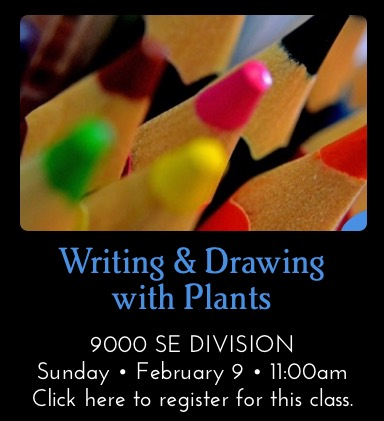
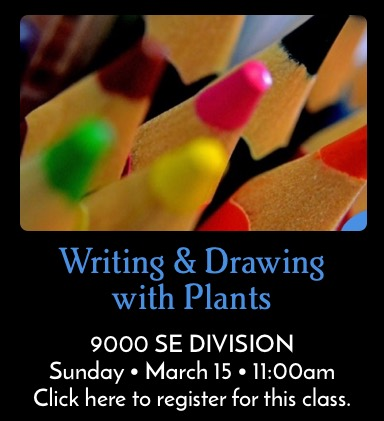
classes update

Changed region(s): [[0.0625, 0.772, 0.9062, 0.9881]]

diff --git a/pages/events/current-classes.htm b/pages/events/current-classes.htm
@@ -83,96 +83,6 @@ is_hidden = 0
 
 <!-- <p><strong>5050 SE Stark St location:</strong><br />Limited to 5-10 people.<br>Daily from November 22 – December 15. Time Slots are 10:00am, 12:30pm and 3:00pm.<br>Email <a href="mailto:stark-classes@portlandnursery.com?subject=Schedule%20a%20Wreath%20Party">stark-classes@portlandnursery.com</a> or call 503-231-5050.</p> -->
 
-<h2 class="wkend">February 22 - 23, 2020</h2>
-
-<div class="dclass">
-	<h3>Raised Veggie Bed Demo</h3>
-	<p>with Portland Nursery<br>
-Join Portland Nursery staff members outside as we tend our own raised vegetable beds.  Get practical information on how to grow your own food at home in this informal talk with plenty of time for Q & A. Class is held outside rain or shine so dress for the weather.</p>
-<p><strong>9000 SE DIVISION &bull; Saturday &bull; February 22 &bull; 11:00am</strong><br>
-<a href="https://portlandnursery.wufoo.com/forms/z13o6x6w147ylbb/" onclick="window.open(this.href,  null, 'height=483, =680, toolbar=0, location=0, status=1, scrollbars=1, resizable=1'); return false">Click here to register for this class.</a></p></div>
-
-<div class="dclass">
-	<h3>Winter Apple Tree Pruning</h3>
-<p>with Jarid<br>
-Spring is almost here and it’s time to winter prune your apples! Join Jarid of Portland Nursery for an intro in essential care for your apple trees. Learn how to improve your yields, train young trees, reinvigorate your old growth tree, and more. We will discuss some of the fundamentals of apple tree growth and how you can use that knowledge to get the most from your apple tree.</p>
-<p><strong>9000 SE DIVISION &bull; Saturday &bull; February 22 &bull; 1:00pm</strong><br>
-<a href="https://portlandnursery.wufoo.com/forms/zpfxd220rw80an/" onclick="window.open(this.href,  null, 'height=483, =680, toolbar=0, location=0, status=1, scrollbars=1, resizable=1'); return false">Click here to register for this class.</a></p></div>
-
-<h3>Being Successful with Roses in the NW</h3>
-     <p>with Rich Baer, <a href="http://www.portlandrosesociety.org/" target="_blank">Portland Rose Society</a><br />
-Join Rose Society President and Master Rosarian Rich Baer for basic class on roses: selecting roses, siting and planting them, and caring for them so they will bloom their best. Feel the Rose City pride, and pride in your own roses, whether they are for landscape or vase.</p>
-<p><strong>5050 SE STARK &bull; Saturday &bull; February 22 &bull; 1:00pm</strong><br>
-<a href="https://www.eventbrite.com/e/90351298165" onclick="window.open(this.href,  null, 'height=483, =680, toolbar=0, location=0, status=1, scrollbars=1, resizable=1'); return false">Click here to register for this class.</a></p>
-
-<h3>Small Fruit Series: Grapes</h3>
-    <p>with Ken Whitten of Portland Nursery<br>
-The shrubs and vines of these tasty berries and fruits are key elements in an edible landscape plan.  Learn about the needs and qualities of different varieties that do well in this area, and how they can make your garden beautiful as well as providing tasty fruit for fresh eating or preserving.  Classes in this series can be taken separately. </p>
-<p><strong>5050 SE STARK &bull; Sunday &bull; February 23 &bull; 11:00am</strong><br>
-<a href="https://www.eventbrite.com/e/90348116649" onclick="window.open(this.href,  null, 'height=483, =680, toolbar=0, location=0, status=1, scrollbars=1, resizable=1'); return false">Click here to register for this class.</a></p>
-
-<div class="dclass">
-	<h3>Organic Veggie Gardening 101: Basics for Beginners</h3>
-    <p>with <a href="http://jolieanndonohue.wix.com/thegardeninggoddess" target="_blank">Gardening Goddess</a>, Jolie Ann Donohue<br />
-If you are excited to grow your own food, but have little to no experience or are new to gardening in the Portland area, this is the class for you! Jolie Donohue, The Gardening Goddess will discuss the basics of organic edible gardening, including: site preparation, crop selection based on site elements, planting and care techniques. With her two decades of gardening experience, Jolie will demystify growing your own food and will share her tips and techniques for beginner success!</p>
-<p><strong>9000 SE DIVISION &bull; Sunday &bull; February 23 &bull; 11:00am</strong><br>
-<a href="https://portlandnursery.wufoo.com/forms/z1d9k3w10lfdwsx/" onclick="window.open(this.href,  null, 'height=483, =680, toolbar=0, location=0, status=1, scrollbars=1, resizable=1'); return false">Click here to register for this class.</a></p></div>
-
-<h3>Medicinal Plants</h3>
-	<p>with Gradey Proctor from the <a target="_blank" href="https://arctosschool.org">Arctos School of Herbal and Botanical Studies</a><br>                                                                                                                            Join Gradey Proctor of the Arctos School of Herbal Studies for a class on some common medicinal plants that are easily grown in Northwest gardens. In fact, some of these plants may already be living in your garden! For example, many of the plants we call weeds have a rich medicinal history.  Gradey will discuss the healing properties of medicinal plants and some ways in which these garden herbs can be processed for medicine.</p>
-<p><strong>5050 SE STARK &bull; Sunday &bull; February 23 &bull; 1:00pm</strong><br>
-<a href="https://www.eventbrite.com/e/90348634197" onclick="window.open(this.href,  null, 'height=483, =680, toolbar=0, location=0, status=1, scrollbars=1, resizable=1'); return false">Click here to register for this class.</a></p>
-
-<div class="dclass">
-	<h3>Organic Veggie Gardening 102: Companion Planting and Crop Rotation</h3>
-    <p>with <a href="http://jolieanndonohue.wix.com/thegardeninggoddess" target="_blank">Gardening Goddess</a>, Jolie Ann Donohue<br />
-Take your vegetable garden to the next level. This is a great class for gardeners with a little experience under their belt who now want to dig deeper! Join Jolie Donohue, The Gardening Goddess and learn the benefits of practicing crop rotation and companion planting for the healthiest, happiest plants possible. Drawing from two decades of gardening experience, Jolie will discuss tips and techniques for crop rotation, great crop combinations and methods for inter-planting, and strategize about how to rotate crops in small urban plots.</p>
-<p><strong>9000 SE DIVISION &bull; Sunday &bull;  February 23 &bull; 1:00pm</strong><br>
-<a href="https://portlandnursery.wufoo.com/forms/z1r54qzz16jafjg/" onclick="window.open(this.href,  null, 'height=483, =680, toolbar=0, location=0, status=1, scrollbars=1, resizable=1'); return false">Click here to register for this class.</a></p></div>
-
-<h2 class="wkend">February 29 - March 1, 2020</h2>
-
-<h3>Preparing and Planting your Spring Vegetable Garden</h3>
-    <p>with Ian Wilson of <a target="_blank" href="http://www.portlandediblegardens.com">Portland Edible Gardens</a><br />
-Come learn about how to kick off the growing season for your vegetable garden! This class will cover when and how to amend and cultivate your garden soil, good choices for compost and organic fertilizers, and what vegetables to plant in this seasonal window from both seeds and starts. Come with questions and enthusiasm, and leave with the confidence to plant an edible garden!</p>
-<p><strong>5050 SE STARK &bull; Saturday &bull; February 29 &bull; 11:00am</strong><br>
-<a href="https://www.eventbrite.com/e/90188248479" onclick="window.open(this.href,  null, 'height=483, =680, toolbar=0, location=0, status=1, scrollbars=1, resizable=1'); return false">Click here to register for this class.</a></p>
-
-<h3>Working with Water</h3>
-    <p>with Jacquie Boger of Art and Soil Sustainable Garden Solutions<br>
-Part of planning a garden is dealing with water: the wet spots, the dry spots, and -- especially in our winters -- where to put all the rain. So why not work that into your plan from the beginning? Learn about what it takes to integrate stormwater infiltration into your landscape with dry creek beds and drywells, swales, and other techniques. Envision your irrigation zones so you don't end up with thirsty plants struggling in hard-to-reach places.</p>
-<p><strong>5050 SE STARK &bull; Saturday &bull; February 29 &bull; 1:00pm</strong><br>
-<a href="https://www.eventbrite.com/e/90190232413" onclick="window.open(this.href,  null, 'height=483, =680, toolbar=0, location=0, status=1, scrollbars=1, resizable=1'); return false">Click here to register for this class.</a></p>
-
-<div class="dclass">
-	<h3>Winter Windfall Colors<br>dyeing with storm fallen branches, orchard prunings and lichens.</h3>
-<p>with Iris Sullivan-Daire of <a target="_blank" href="https://www.dreambirdstudio.com">DreamBird Studio</a>.<br>
-Sweetly scented healing colors on silk and wool ~ warm browns & rich burnished golden hues, these are the reward for the forager of winter windfall dyes here in the PNW. In this class we will cook up a big pot of hemlock, spruce, and alder twigs along with lichens which have been gathered off the ground after storms on the Oregon Coast. We will discuss the ethics and safety of wild crafting dyes, possibilities for using fruit tree prunings for color, and touch on the medicinal potential of some common trees and lichens.</p>
-<p>Students will leave with a cozy raw silk scarf dyed in the class, and empowered to explore the potential of windfall colors in their own neighborhood.</p>
-<p>$30 materials fee. Pre-registration required.</p>
-<p><strong>9000 SE DIVISION &bull; Sunday &bull; March 1 &bull; 11:00am</strong><br>
-<a href="https://www.eventbrite.com/e/winter-windfall-colors-tickets-91726543561" onclick="window.open(this.href,  null, 'height=483, =680, toolbar=0, location=0, status=1, scrollbars=1, resizable=1'); return false">Click here to register for this class.</a></p></div>
-
-<h3>Seed Starting Basics</h3>
-<p>with Corina Reynolds Stearns of Portland Nursery<br />
-Let’s get sowing! Learn the basics of starting seeds both indoors and out. We’ll discuss starting seeds inside vs. direct sowing outside, indoor lighting options, outdoor seedling protection, soil mediums, types of seeds, and many essential tips and tricks. </p>
-<p><strong>5050 SE STARK &bull; Sunday &bull; March 1 &bull; 11:00am</strong><br>
-<a href="https://www.eventbrite.com/e/seed-starting-basics-tickets-92817312079" onclick="window.open(this.href,  null, 'height=483, =680, toolbar=0, location=0, status=1, scrollbars=1, resizable=1'); return false">Click here to register for this class.</a></p>
-
-<div class="dclass">
-	<h3>All About Soil Amendments</h3>
-    <p>with Heather Havens of <a target="_blank" href="https://concentratesnw.com">Concentrates, Inc.</a><br>
-Healthy soil is the foundation of a vibrant garden.  Heather Havens, who has a BS of Agriculture and is the general manager of Concentrates, Inc., will discuss natural soil fertilization and soil management for maximum plant and soil health. We’ll discuss the use of natural soil amendments and fertilizers as well as techniques for sustainable soil health and maintenance.
-We’ll also discuss soil test interpretation, so feel free to get a soil test from <a target="_blank" href="http://www.al-labs-west.com">A & L Labs</a>, and bring your test report to class if you like (not required by any means)! Mail your soil sample to <a target="_blank" href="http://www.al-labs-west.com">A & L Labs</a> (or bring it to Concentrates to mail). Analysis to get: S3C + Recommendations, Graphical. For SOIL, or S7A + Recommendations, Graphicalfor Artificial Media.</p>
-<p><strong>9000 SE DIVISION &bull; Sunday &bull; March 1 &bull; 1:00pm</strong><br>
-<a href="https://portlandnursery.wufoo.com/forms/z1ekop1i08x7dqq/" onclick="window.open(this.href,  null, 'height=483, =680, toolbar=0, location=0, status=1, scrollbars=1, resizable=1'); return false">Click here to register for this class.</a></p></div>
-
-<h3>Outdoor Container Gardening 101: Vegetables and Herbs</h3>
-<p>with Katie Frey of Portland Nursery<br />
-Gardening on a budget? Renting or only have a patio/balcony? New to growing your own food, and just want to experiment a little? Want to learn DIY suggestions for gardening in small spaces? Then this is the class for you! Learn ways to plan and implement a low-cost container garden, be it one pot or many. We’ll discuss an array of situationally appropriate, inexpensive options for setup, growing, and care. You’ll also leave with suggestions of edibles who lend themselves more easily to containers. Material learned in this class will focus primarily on food plants, but much of the information will be directly transferable to containers with flowers and shrubs. </p>
-<p><strong>5050 SE STARK &bull; Sunday &bull; March 1 &bull; 1:00pm</strong><br>
-<a href="https://www.eventbrite.com/e/outdoor-container-gardening-101-vegetables-and-herbs-tickets-93533935519" onclick="window.open(this.href,  null, 'height=483, =680, toolbar=0, location=0, status=1, scrollbars=1, resizable=1'); return false">Click here to register for this class.</a></p>
-
 <h2 class="wkend">March 7 - 8, 2020</h2>
 
 <div class="dclass">

diff --git a/partials/homepage/tasks.htm b/partials/homepage/tasks.htm
@@ -14,7 +14,7 @@
             <div class="col-md-4 col-sm-6">
 			 <div class="season-box">
                 <div class="season-thumb">
-                  <a href="https://www.eventbrite.com/e/90190232413" onclick="window.open(this.href,  null, 'height=483, =680, toolbar=0, location=0, status=1, scrollbars=1, resizable=1'); return false"><img src="{{ 'assets/images/classboxes/workingwithwater.jpg'|theme }}" alt="" /></a>
+                  <a href="https://portlandnursery.com/resources/sales/"><img src="{{ 'assets/images/marketing/salesMarch2020.jpg'|theme }}" alt="" /></a>
                 </div>
 
                  <a href="https://portlandnursery.com/resources/sales/">
@@ -33,7 +33,7 @@
             <div class="col-md-4 col-sm-6">
 			 <div class="season-box">
                 <div class="season-thumb">
-                   <a href="https://portlandnursery.wufoo.com/forms/z1ekop1i08x7dqq/" onclick="window.open(this.href,  null, 'height=483, =680, toolbar=0, location=0, status=1, scrollbars=1, resizable=1'); return false"><img src="{{ 'assets/images/classboxes/soilamendments.jpg'|theme }}" alt="" /></a>
+                   <a href="https://portlandnursery.wufoo.com/forms/zq791jw1e1ajl0/" onclick="window.open(this.href,  null, 'height=483, =680, toolbar=0, location=0, status=1, scrollbars=1, resizable=1'); return false"><img src="{{ 'assets/images/classboxes/drawing.jpg'|theme }}" alt="" /></a>
                 </div>
 
 	                 <div class="season-content">
@@ -50,7 +50,7 @@
            <div class="col-md-4 col-sm-6">
 			 <div class="season-box">
                 <div class="season-thumb">
-                      <a href="https://www.eventbrite.com/e/outdoor-container-gardening-101-vegetables-and-herbs-tickets-93533935519" onclick="window.open(this.href,  null, 'height=483, =680, toolbar=0, location=0, status=1, scrollbars=1, resizable=1'); return false"><img src="{{ 'assets/images/classboxes/veggiecontainer.jpg'|theme }}" alt="" /></a>
+                      <a href="https://portlandnursery.wufoo.com/forms/z8epabm11p4181/" onclick="window.open(this.href,  null, 'height=483, =680, toolbar=0, location=0, status=1, scrollbars=1, resizable=1'); return false"><img src="{{ 'assets/images/classboxes/streettrees.jpg'|theme }}" alt="" /></a>
                 </div>
 
                  <a href="https://portlandnursery.com/resources/sales/">

diff --git a/pages/resources/sales.htm b/pages/resources/sales.htm
@@ -21,10 +21,17 @@ is_hidden = 0
 
 	                <div class="col-md-12">
 
-               <h2>Come back again for new sales</h2>
+<!--                <h2>Come back again for new sales</h2> -->
 
+                <figure><a target="_blank" href="https://portlandnursery.com/resources/sales/"><img alt="" src="https://portlandnursery.com/newsletter/images/sales/osmocote.jpg" style="margin: 0px;display: inline;" /></a></figure>
 
-                <figure><a target="_blank" href="https://portlandnursery.com/events/yearly-events/"><img alt="" src="https://portlandnursery.com/newsletter/images/valentinesale.jpg" style="margin: 0px;display: inline;" /></a></figure>
+                <hr />
+
+                <figure><a target="_blank" href="https://portlandnursery.com/resources/sales/"><img alt="" src="https://portlandnursery.com/newsletter/images/sales/sluggo2020.jpg" style="margin: 0px;display: inline;" /></a></figure>
+
+                <hr />
+
+                <figure><a target="_blank" href="https://portlandnursery.com/resources/sales/"><img alt="" src="https://portlandnursery.com/newsletter/images/sales/ebstonefertilizer2020.jpg" style="margin: 0px;display: inline;" /></a></figure>
 
 	                 </div>
                 </div>

diff --git a/partials/homepage/happenings.htm b/partials/homepage/happenings.htm
@@ -38,11 +38,11 @@
                     <div class="col-md-4 col-sm-6 wow fadeInUp" data-wow-duration="300ms" data-wow-delay="200ms">
                         <div class="media happening-box">
                             <div class="pull-left">
-                                <a href="/about/employment/"><img class="happening-icon img-responsive" src="{{ 'assets/images/icons/employment.png'|theme }}" alt="Gift Card" /></a>
-                                
+                                <a href="/plant-library/"><img class="happening-icon img-responsive" src="{{ 'assets/images/icons/plant-coming-up.png'|theme }}" alt="Plant Library" /></a>
+
                             </div>
                             <div class="media-body">
-                                <h3 class="media-heading"><a href="/about/employment/">Now Hiring!</a></h3>
+                                <h3 class="media-heading"><a href="/plant-library/">New: Plant Library</a></h3>
                             </div>
                         </div>
                     </div><!--/.col-md-4-->

diff --git a/partials/homepage/socialblock.htm b/partials/homepage/socialblock.htm
@@ -5,7 +5,7 @@
                 <div class="col-md-4 col-sm-6 wow fadeInDown">
                     <div class="specials text-left">
 <!--                         <h2 class="brightonL center">Specials</h2> -->
-                     <a href="https://portlandnursery.com/container-gardens/"><img class="img-responsive" src="{{ 'assets/images/marketing/februarycontainer.jpg'|theme }}" alt="container" /></a> -
+                     <a href="https://portlandnursery.com/resources/sales"><img class="img-responsive" src="{{ 'assets/images/marketing/strawberrysale2020.jpg'|theme }}" alt="sales" /></a> -
 
                     </div><!-- col-md-4 -->
 

diff --git a/partials/resources/month.htm b/partials/resources/month.htm
@@ -1,3 +1,3 @@
 [viewBag]
 ==
-february
+march
